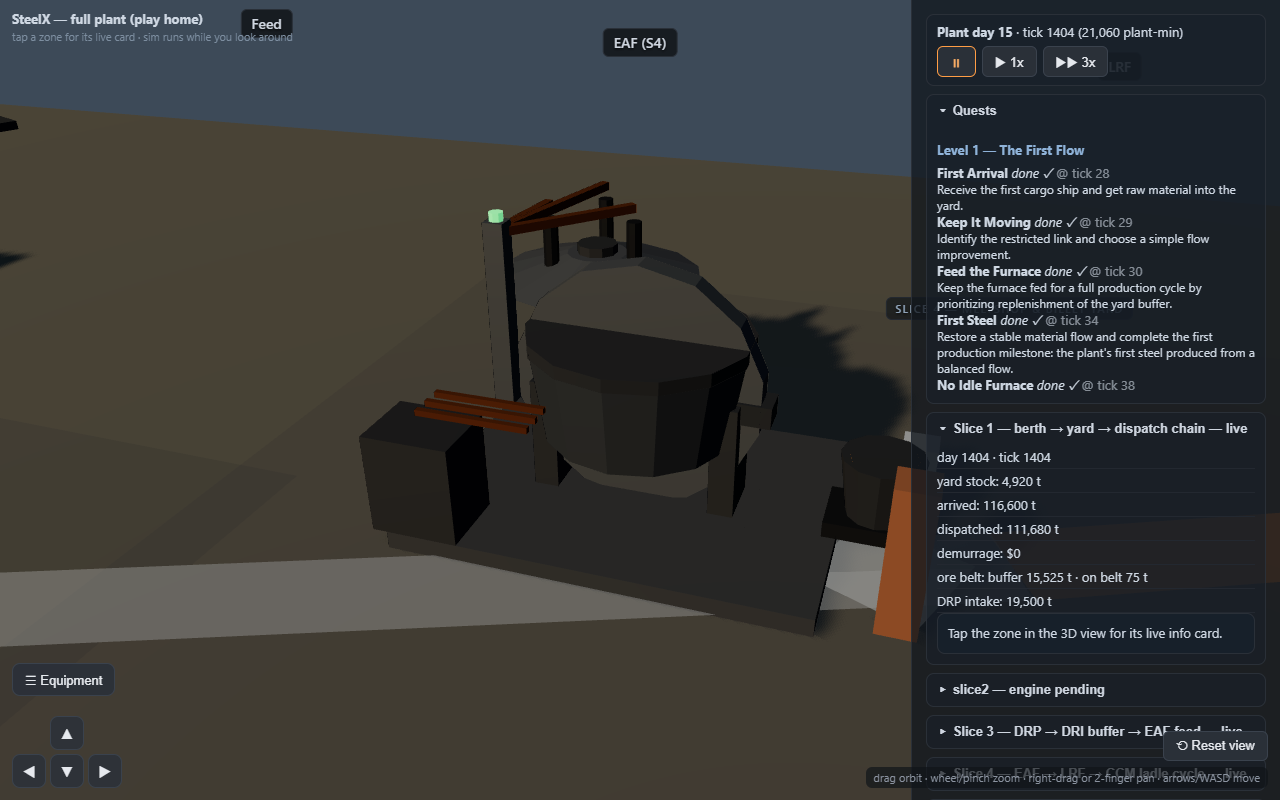
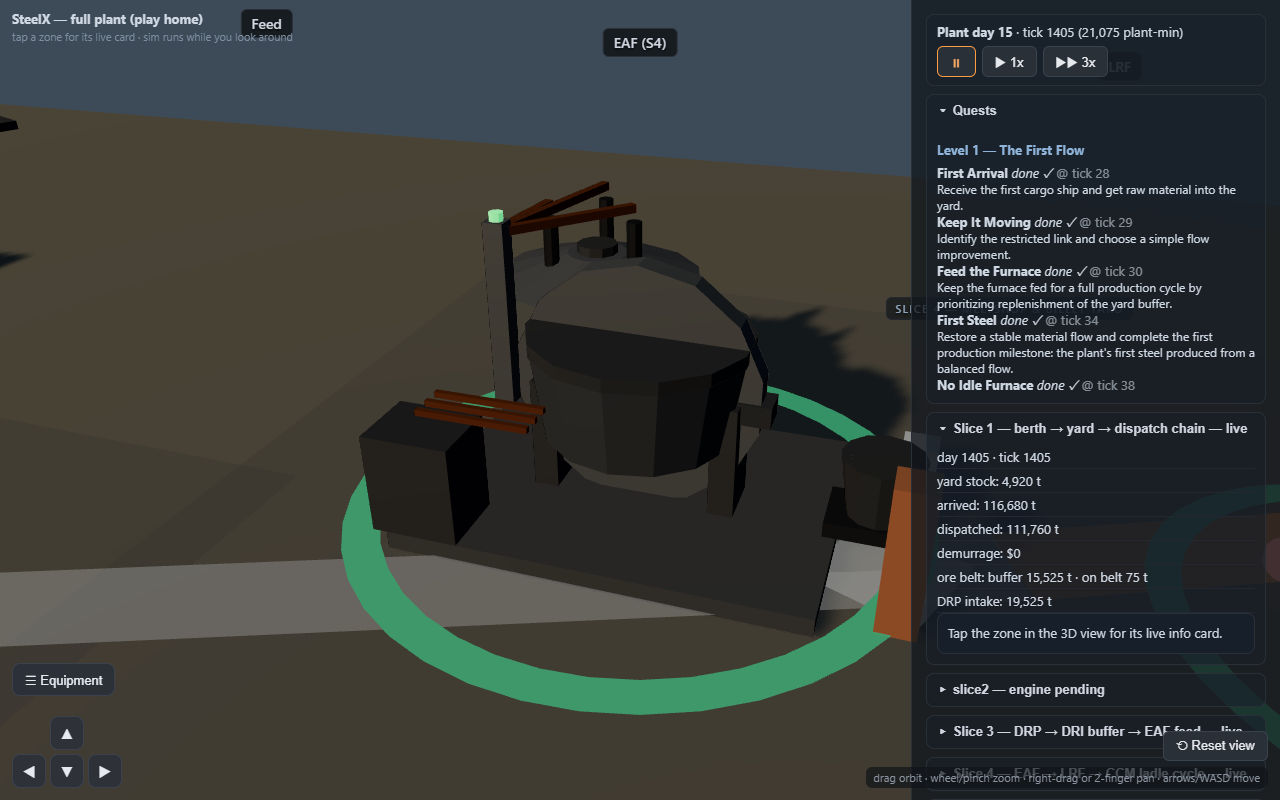
S3.2 state lights + amber rings (Stage 3 complete): pure state grammar (idle desaturated/running green pulse/starved amber) projected from EXISTING signals — zone tone + feed shortfall/empty EAF scrap interface; all 4 machine rings in ONE instanced draw; slice3 inspector surfaces skipped-heat as wai

Changed region(s): [[0.25, 0.5938, 0.6875, 0.9062], [0.5938, 0.4688, 0.6875, 0.5625]]

diff --git a/web/src/ports/fullplant/browser/main.tsx b/web/src/ports/fullplant/browser/main.tsx
@@ -22,6 +22,8 @@ import { equipmentIndex, DRAFTED_CARD, type EquipEntry } from './equip_index.ts'
 import { STREAM, ZONE_PAD, LIGHTING, STATE } from './palette.ts';
 import { beltTokenView, yardMoundView } from '../../../shared/ore_belt.ts';
 import { eafPoseView, BORE_RAISED, LADLE_HOME_X } from '../../../shared/eaf_heat_pose.ts';
+import { stateLightView, feedAmberSignal } from '../../../shared/state_lights.ts';
+import { feedShortfallsThisTick } from '../../../shared/meltshop_feed.ts';
 
 // S0.4 visual-pass A/B bisect (dev-only): URL params override the rig so each suspect gets
 // one headless shot without code churn. ?tone=0 -> NoToneMapping, ?exposure=X, ?fog=0 -> no
@@ -389,6 +391,52 @@ function OreYardMound() {
 }
 
 // ---------- S3.1 fill levels (PLAN_FORGED: every inventory = fill level) ----------
+// S3.2 state lights: ONE instanced draw for all machine rings (draw-budget discipline).
+// Per-instance color/scale from the pure stateLightView projection of EXISTING signals:
+// zone inspection tone + S3.1 feed shortfall. Unbuilt machines scale to ~0 (hidden).
+const RING_DEFS = [
+  { id: 'drp', pos: [-14, 10] as const, r: 4.6, built: () => SESSION.builtNode('drp'), read: () => SESSION.cardFor('slice3')?.tone, shortfall: false },
+  { id: 'eaf', pos: [9, 2] as const, r: 3.6, built: () => SESSION.builtNode('eaf'), read: () => SESSION.cardFor('slice4')?.tone, shortfall: true },
+  { id: 'ccm', pos: [19, 2] as const, r: 3.0, built: () => SESSION.builtNode('cc'), read: () => SESSION.cardFor('slice4')?.tone, shortfall: false },
+  { id: 'mill', pos: [34, -8] as const, r: 4.2, built: () => SESSION.builtNode('bar_mill'), read: () => SESSION.cardFor('slice5')?.tone, shortfall: false },
+];
+function StateRings() {
+  const mesh = React.useMemo(() => {
+    const m = new THREE.InstancedMesh(new THREE.RingGeometry(1, 1.14, 40),
+      new THREE.MeshBasicMaterial({ color: '#ffffff', transparent: true, opacity: 0.85, side: THREE.DoubleSide }), RING_DEFS.length);
+    m.instanceMatrix.setUsage(THREE.DynamicDrawUsage);
+    m.frustumCulled = false;
+    return m;
+  }, []);
+  const tmp = React.useMemo(() => ({
+    m: new THREE.Matrix4(), q: new THREE.Quaternion().setFromEuler(new THREE.Euler(-Math.PI / 2, 0, 0)),
+    p: new THREE.Vector3(), s: new THREE.Vector3(), c: new THREE.Color(),
+  }), []);
+  useRafLoop(() => {
+    const t = performance.now() / 1000;
+    const hook: Record<string, unknown> = {};
+    RING_DEFS.forEach((d, i) => {
+      const built = d.built();
+      const feed = SESSION.feed;
+      const shortfall = !!(built && d.shortfall && feed && feedAmberSignal(
+        feedShortfallsThisTick(feed) > 0, feed.registry.inventories['eaf_scrap']?.usable_t ?? 0));
+      const view = stateLightView(built ? d.read() : null, shortfall);
+      const pulse = view.pulse ? 0.72 + 0.28 * (0.5 + 0.5 * Math.sin(t * 2.6)) : 1;
+      tmp.p.set(d.pos[0], 0.05, d.pos[1]);
+      tmp.s.setScalar(built ? d.r : 0.0001);
+      tmp.m.compose(tmp.p, tmp.q, tmp.s);
+      mesh.setMatrixAt(i, tmp.m);
+      tmp.c.set(view.color).multiplyScalar(view.level * pulse);
+      mesh.setColorAt(i, tmp.c);
+      hook[d.id] = { color: view.color, amber: view.amber, built };
+    });
+    mesh.instanceMatrix.needsUpdate = true;
+    if (mesh.instanceColor) mesh.instanceColor.needsUpdate = true;
+    (window as any).__steelxRings = hook; // dev probe hook
+  });
+  return <primitive object={mesh} />;
+}
+
 // Generic live gauge: inner mesh scale.y = clamped fraction, seated on its base.
 // Fill-only (no shell) by design — the visible-draw budget is tight (150 worst-case).
 // Absolute scale set per frame (no smoothing) -> rAF-restart safe.
@@ -744,8 +792,8 @@ function Slice3({ at }: { at: [number, number, number] }) {
       <FlowPulse from={[-5.4, 0.7, 0]} to={[-1.2, 2.4, 0]} active={() => { const s = SESSION.stateOf('slice3') as any; return !!s && Array.isArray(s.buffer) && s.buffer.some((l: any) => l.usable_t > 0); }} color="#d9a13f" />
       </>}
       {driBufferBuilt && <>
-      <mesh castShadow position={[0, 2, 0]}><cylinderGeometry args={[1.6, 1.6, 4, 20]} /><meshStandardMaterial color="#39424e" metalness={0.5} roughness={0.5} transparent opacity={0.4} /></mesh>
-      {/* S3.1: DRI buffer fill level = slice3 buffer_t / capacity (live gauge inside the tank) */}
+      {/* S3.1: DRI buffer fill level = slice3 buffer_t / capacity (live gauge; fill-only,
+          the decorative shell was removed for the S3.2 draw budget) */}
       <FillGauge cyl pos={[0, 0.05, 0]} size={[2.9, 3.9, 2.9]} color={STREAM.dri} hookId="dri_buffer"
         frac={() => {
           const s3 = SESSION.stateOf('slice3') as any;
@@ -805,8 +853,8 @@ function EafHeatCycle() {
     // restrained spark shower at ladle impact (10 instanced tetra, presentation-only arcs)
     const sparks: any = new THREE.InstancedMesh(new THREE.TetrahedronGeometry(0.05), new THREE.MeshBasicMaterial({ color: '#ffc46b' }), 10);
     sparks.instanceMatrix.setUsage(THREE.DynamicDrawUsage); sparks.visible = false;
-    // smoke: 3 billboard quads, visible only while melting/tapping (draw budget: 150 worst-case)
-    const smoke: any[] = [0, 1, 2].map(() => {
+    // smoke: 2 billboard quads, visible only while melting/tapping (draw budget: 150 worst-case)
+    const smoke: any[] = [0, 1].map(() => {
       const q: any = new THREE.Mesh(new THREE.PlaneGeometry(0.9, 0.9), new THREE.MeshBasicMaterial({ color: '#767c82', transparent: true, opacity: 0, depthWrite: false }));
       q.visible = false; return q;
     });
@@ -1196,6 +1244,7 @@ function Scene() {
         {SESSION.sliceBuildDone('slice3') && <Slice3 at={posOf('slice3')} />}
         {SESSION.sliceBuildDone('slice4') && <Slice4 at={posOf('slice4')} />}
         {SESSION.sliceBuildDone('slice5') && <Slice5 at={posOf('slice5')} />}
+        <StateRings />
       </Canvas>
       <LabelLayer />
       <EquipPane />

diff --git a/web/tests/inspection_cards.test.ts b/web/tests/inspection_cards.test.ts
@@ -5,7 +5,7 @@
 import { readFileSync } from 'node:fs';
 import { describe, it, expect } from 'vitest';
 import { parseFactoryLayout } from '../src/shared/factory_layout.ts';
-import { inspectSlice4Slot, inspectSlice5Slot } from '../src/shared/inspection_cards.ts';
+import { inspectSlice4Slot, inspectSlice5Slot, inspectSlice3Slot } from '../src/shared/inspection_cards.ts';
 
 const LAYOUT_PATH = 'C:/AI_LAB/SteelX/content/layout/factory_layout_v1.json';
 const layout = parseFactoryLayout(JSON.parse(readFileSync(LAYOUT_PATH, 'utf8')));
@@ -95,5 +95,31 @@ describe('card projection reads only fields the ports actually emit', () => {
     expect(st.mill).toHaveProperty('batch_t');
     expect(st.counters).toHaveProperty('mill_wait_ticks');
     expect(st.counters).toHaveProperty('mill_starved_ticks');
+  });
+});
+
+// S3.2: the slice3 card must surface the EXISTING starved signal (last heat skipped)
+// as 'waiting' — the same projection the amber state ring reads. Last-heat semantics:
+// recovery is automatic once the next heat charges.
+describe('slice3 starvation tone (S3.2 state lights)', () => {
+  // Mirrors GameSession.cardFor's synthesized zone slot (session.ts: {id:`${slice}.zone`, inspect_key}).
+  const s3slot = { id: 'slice3.zone', inspect_key: 'dri_buffer' } as any;
+  const base = { tick: 120, buffer_t: 2, drp_tripped_until: 0 };
+  it('last heat skipped -> waiting + SKIPPED line', () => {
+    const card = inspectSlice3Slot(s3slot, { ...base, heats: [{ status: 'charged' }, { status: 'skipped', failure_cause: 'buffer short' }] } as any);
+    expect(card.tone).toBe('waiting');
+    expect(card.lines.join(' ')).toContain('SKIPPED');
+  });
+  it('recovery: next heat charged -> busy again (buffer > 0)', () => {
+    const card = inspectSlice3Slot(s3slot, { ...base, buffer_t: 25, heats: [{ status: 'skipped' }, { status: 'charged' }] } as any);
+    expect(card.tone).toBe('busy');
+  });
+  it('tripped DRP -> waiting regardless of heats', () => {
+    const card = inspectSlice3Slot(s3slot, { ...base, drp_tripped_until: 200, heats: [{ status: 'charged' }] } as any);
+    expect(card.tone).toBe('waiting');
+  });
+  it('no heats + empty buffer -> idle', () => {
+    const card = inspectSlice3Slot(s3slot, { ...base, buffer_t: 0, heats: [] } as any);
+    expect(card.tone).toBe('idle');
   });
 });

diff --git a/web/tests/state_lights.test.ts b/web/tests/state_lights.test.ts
@@ -1,0 +1,45 @@
+// S3.2 state-light projection — pure-data tests. Pins the PLAN_FORGED state grammar:
+// idle desaturated / running green pulse / blocked-starved amber; feed shortfall
+// overrides a busy tone (the furnace runs but its feed is short).
+import { describe, it, expect } from 'vitest';
+import { stateLightView, feedAmberSignal, AMBER, RUN_GREEN, IDLE_GRAY } from '../src/shared/state_lights.ts';
+
+describe('state grammar', () => {
+  it('idle / unknown -> desaturated, no pulse, not amber', () => {
+    for (const tone of ['idle', null, undefined] as const) {
+      const v = stateLightView(tone as any, false);
+      expect(v.color).toBe(IDLE_GRAY);
+      expect(v.pulse).toBe(false);
+      expect(v.amber).toBe(false);
+    }
+  });
+  it('busy -> green pulse, not amber', () => {
+    const v = stateLightView('busy', false);
+    expect(v.color).toBe(RUN_GREEN);
+    expect(v.pulse).toBe(true);
+    expect(v.amber).toBe(false);
+  });
+  it('waiting -> amber pulse', () => {
+    const v = stateLightView('waiting', false);
+    expect(v.color).toBe(AMBER);
+    expect(v.pulse).toBe(true);
+    expect(v.amber).toBe(true);
+  });
+  it('feed shortfall overrides busy AND idle -> amber', () => {
+    for (const tone of ['busy', 'idle', 'waiting', null] as const) {
+      const v = stateLightView(tone as any, true);
+      expect(v.color).toBe(AMBER);
+      expect(v.amber).toBe(true);
+    }
+  });
+  it('brightness ordering: amber > running > idle', () => {
+    expect(stateLightView('waiting', false).level).toBeGreaterThan(stateLightView('busy', false).level);
+    expect(stateLightView('busy', false).level).toBeGreaterThan(stateLightView('idle', false).level);
+  });
+  it('feedAmberSignal: shortfall event OR empty EAF scrap interface', () => {
+    expect(feedAmberSignal(true, 50)).toBe(true);
+    expect(feedAmberSignal(false, 0)).toBe(true);
+    expect(feedAmberSignal(false, -1)).toBe(true);
+    expect(feedAmberSignal(false, 50)).toBe(false);
+  });
+});

diff --git a/web/src/shared/state_lights.ts b/web/src/shared/state_lights.ts
@@ -1,0 +1,30 @@
+// S3.2 state lights (PLAN_FORGED §2 state grammar): idle = desaturated, running =
+// stream-green pulse, blocked/starved = AMBER ring. Pure projection of the EXISTING
+// sim signals — zone inspection tone (busy/idle/waiting, already derived from the
+// slice events by inspection_cards) plus the S3.1 feed shortfall. Presentation only.
+
+export type MachineTone = 'busy' | 'idle' | 'waiting';
+
+export interface StateLightView {
+  color: string;   // ring color (hex)
+  pulse: boolean;  // opacity/color breathing while active
+  amber: boolean;  // blocked/starved — the "where it hurts" signal
+  level: number;   // base brightness 0..1
+}
+
+export const AMBER = '#ffb347';   // STATE.blocked_ring (palette.ts)
+export const RUN_GREEN = '#59e6a0';
+export const IDLE_GRAY = '#5a6673';
+
+export function stateLightView(tone: MachineTone | null | undefined, feedShortfall: boolean): StateLightView {
+  // Shortfall overrides even a busy tone: the furnace is running but its feed is short.
+  if (feedShortfall || tone === 'waiting') return { color: AMBER, pulse: true, amber: true, level: 0.9 };
+  if (tone === 'busy') return { color: RUN_GREEN, pulse: true, amber: false, level: 0.55 };
+  return { color: IDLE_GRAY, pulse: false, amber: false, level: 0.2 };
+}
+
+// S3.2 EAF feed-amber signal: a shortfall event THIS tick, or the persistent condition
+// "EAF scrap interface empty" (the furnace has nothing to charge until the next delivery).
+export function feedAmberSignal(shortfallThisTick: boolean, eafScrapUsableT: number): boolean {
+  return shortfallThisTick || eafScrapUsableT <= 0;
+}

diff --git a/web/src/shared/inspection_cards.ts b/web/src/shared/inspection_cards.ts
@@ -122,14 +122,21 @@ export function inspectSlice3Slot(slot: SlotDef, st: S3StateView): InspectionCar
   const tripped = st.drp_tripped_until > st.tick;
   const charged = st.heats.filter((h) => h.status === 'charged').length;
   const skipped = st.heats.filter((h) => h.status === 'skipped').length;
+  // S3.2: the most recent heat SKIPPED (buffer short) is a real wait state — surface it
+  // as 'waiting' so the zone card AND the amber state ring agree. Recovers automatically
+  // when the next heat charges (last-heat projection, not cumulative history).
+  const lastHeat = st.heats.length ? st.heats[st.heats.length - 1] : null;
+  const starved = lastHeat?.status === 'skipped';
   return {
     slot_id: slot.id,
     title: 'DRP + DRI buffer — what it is doing now',
-    tone: tripped ? 'waiting' : st.buffer_t > 0 ? 'busy' : 'idle',
+    tone: tripped || starved ? 'waiting' : st.buffer_t > 0 ? 'busy' : 'idle',
     lines: [
       tripped
         ? `DRP tripped — discharge halted until tick ${st.drp_tripped_until}.`
-        : 'DRP running — discharging into the DRI buffer.',
+        : starved
+          ? 'DRP running — but the last EAF heat was SKIPPED: DRI buffer short.'
+          : 'DRP running — discharging into the DRI buffer.',
       `DRI buffer: ${st.buffer_t.toFixed(1)} t ready for EAF feed.`,
       `Heats charged: ${charged}${skipped ? ` · skipped: ${skipped}` : ''}.`,
     ],

diff --git a/STATE.md b/STATE.md
@@ -127,6 +127,19 @@ end goal; desktop/browser for now. No-rush iterative cadence, one Go-gated micro
     production gating on feed stock is a later explicit rule change.
   - NEXT: **S3.2 state lights + amber rings** (existing `starved`/`wait` events + feed
     shortfall). Gate: starve the DRP on purpose → plant visibly amber where it hurts.
+  - **S3.2 DONE (code + objective gates; SME sensory verdict PENDING)** — state grammar
+    live: `shared/state_lights.ts` pure projection (idle desaturated / running green pulse /
+    blocked-starved AMBER #ffb347; feed shortfall overrides busy). ONE instanced draw for
+    all 4 machine rings (DRP/EAF/CCM/bar mill) — per-instance color+scale, unbuilt hidden.
+    Wired to EXISTING signals: zone inspection tone + S3.1 feed shortfall/empty EAF scrap
+    interface (`feedAmberSignal`). slice3 inspector extended: last heat SKIPPED → 'waiting'
+    (card + ring agree; auto-recovers on next charged heat). Draw budget kept: smoke 3→2,
+    decorative DRI tank shell removed → tap-time 149 ≤150. GATE PROVEN LIVE: deliberate
+    DRP starvation (buffer emptied before scripted heat tick 120) → "heat SKIPPED: buffer
+    short" → ring green→amber, screenshot-verified. Suite 33 files / 269; 0 console errors.
+    Evidence: `docs/evidence/s32/`. **STAGE 3 COMPLETE.**
+  - NEXT: **Stage 4 — Cast** per docs/PLAN_FORGED.md (read the stage before starting).
+    Sensory verdicts pending: S1.4, S2.1, S2.2, S3.1, S3.2 (Yasser AFK batch).
 
 ## The game as it plays today
 Fullplant app (`web/src/ports/fullplant`, dev port 5178 via `start_digital_twin_v2.bat` —
@@ -146,8 +159,8 @@ EAF/LF/CCM, slice5 mills); each is a pure tick engine with a Python mirror + par
 - Unknown values are asked, never invented.
 
 ## Verified facts (measured, not remembered — re-measure if in doubt)
-- Test suite: `cd web && npx vitest run --root .` → **32 files / 259 tests green** (re-measured
-  20.11 at S3.1; +7 meltshop-feed parity/negative tests).
+- Test suite: `cd web && npx vitest run --root .` → **33 files / 269 tests green** (re-measured
+  20.11 at S3.2; +5 state-light grammar, +4 slice3 starvation tone, +1 feed-amber signal).
 - Fresh-clone gate passed at S0.1 (stranger's clone builds and plays step 1).
 - Remote master head: S1.3 hero-swap commit (20.11) — in sync after push; `git log -1` for hash.
 - S1.3 perf (headless SwiftShader, relative deltas only): GLB download 16.5 MB, tris/frame 6.8k,

diff --git a/DECISIONS.md b/DECISIONS.md
@@ -100,3 +100,17 @@ gate = F-06 chapter swaps).
   Fill levels: scrap bin (yard_stock_t/5000 ops cap), DRI tank (buffer_t/fixture capacity),
   EAF interface gauges (200 t presentation ref, sme_pending). Gates: mirror N1-N5, 60-tick
   three-engine parity, suite 259/32, gauges 12/12, restore byte-exact, tap-time meshes 150.
+- **S3.2 (20.11) — state lights + amber rings:** presentation-only projection of EXISTING
+  sim signals (no new sim rules): zone inspection tone + feed shortfall. State grammar per
+  PLAN_FORGED §2: idle desaturated / running stream-green pulse / blocked-starved amber
+  (#ffb347 palette). All 4 rings = ONE InstancedMesh draw (per-instance color/scale;
+  unbuilt machines scale ~0) — draw-budget discipline held: smoke 3→2 quads, decorative
+  DRI tank shell removed (fill-only gauge remains) → tap-time 149 ≤150. slice3 inspector
+  now surfaces the existing skipped-heat signal as 'waiting' (last-heat projection,
+  auto-recovery; card and ring read the SAME source). EAF amber = shortfall event this
+  tick OR empty eaf_scrap interface (persistent, honest). Gate proven live: deliberate
+  buffer starvation before scripted heat tick → SKIPPED event → DRP ring green→amber
+  (screenshot-verified). Session API notes: builtNode(name) returns BOOLEAN; node IDs are
+  'drp'/'eaf'/'cc'/'bar_mill' (commissioning.ts SLICE_BUILD_NODES); cardFor synthesizes
+  zone slots {id:`${slice}.zone`, inspect_key} — no dri_buffer slot in factory_layout.
+  Known pre-existing: LabelLayer chips/banners overlap at some camera angles (later pass).
